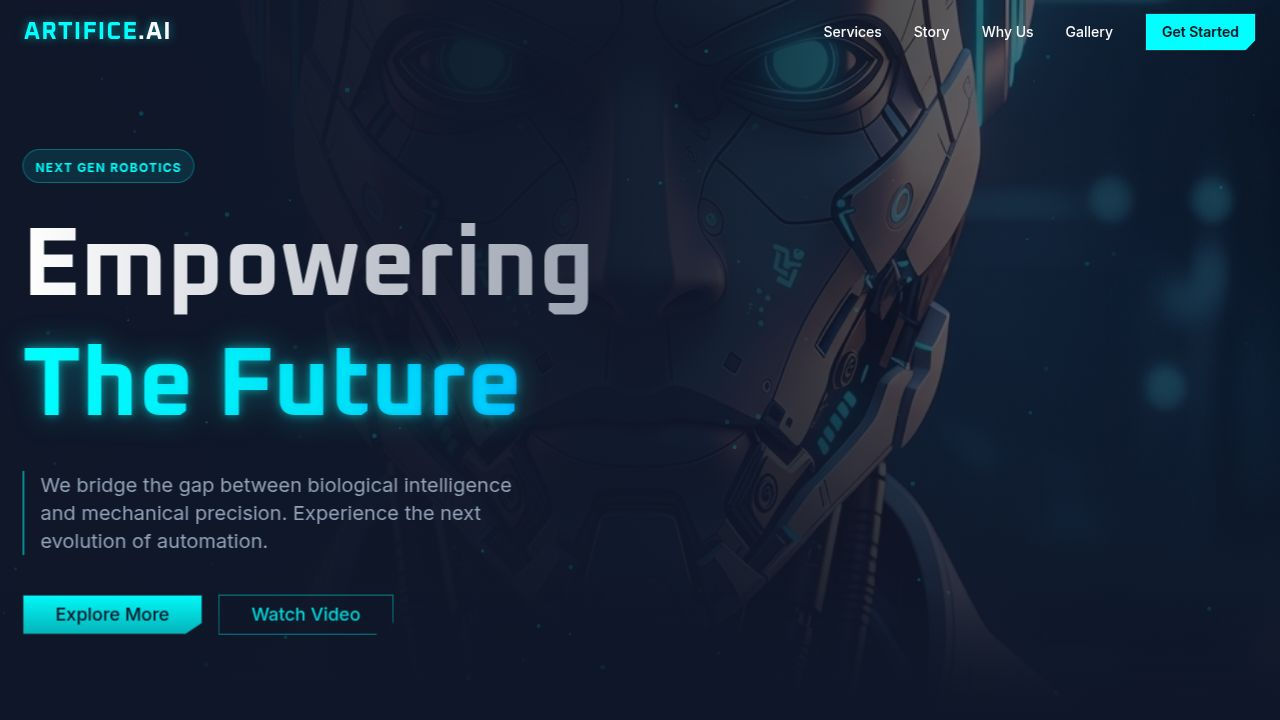
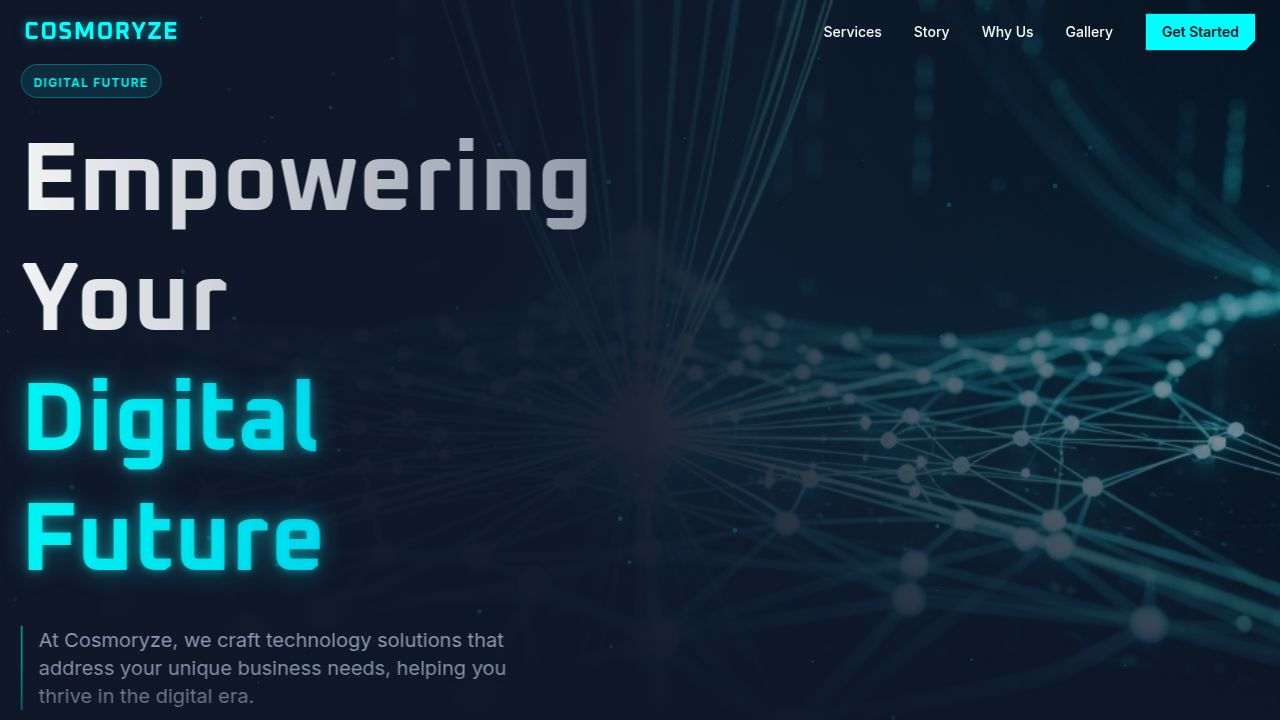
Update website content and imagery to reflect a new brand identity
Replaced "ARTIFICE.AI" with "COSMORYZE", updated hero and services sections, and swapped image assets to match the new branding.

Replit-Commit-Author: Agent
Replit-Commit-Session-Id: e38c0fb1-d854-4fc2-a731-f11efbb8b790
Replit-Commit-Checkpoint-Type: full_checkpoint
Replit-Commit-Event-Id: 98dcdce9-a100-4e81-912e-cbbc0bbe4c65
Replit-Commit-Screenshot-Url: https://storage.googleapis.com/screenshot-production-us-central1/9a9e8f92-416c-4af9-9a3e-e577f5bcaa67/e38c0fb1-d854-4fc2-a731-f11efbb8b790/PRW1V8E
Replit-Helium-Checkpoint-Created: true

diff --git a/client/src/pages/home.tsx b/client/src/pages/home.tsx
@@ -1,30 +1,13 @@
 import { useState, useEffect, useRef } from "react";
 import { motion, useScroll, useTransform } from "framer-motion";
-import { 
-  Cpu, 
-  Bot, 
-  BrainCircuit, 
-  Eye, 
-  ShieldCheck, 
-  Zap, 
-  Settings, 
-  ArrowRight, 
-  ArrowLeft, 
-  Menu, 
-  X, 
-  Github, 
-  Linkedin, 
-  Twitter, 
-  Instagram, 
-  ChevronUp
-} from "lucide-react";
+import { Cloud, Code, BarChart, Monitor, CheckCircle, Trophy, Users, Clock, Menu, ArrowLeft, ArrowRight, Github, Linkedin, Twitter, Instagram, ChevronUp } from "lucide-react";
 import { Button } from "@/components/ui/button";
 import { Card, CardContent, CardHeader, CardTitle, CardDescription } from "@/components/ui/card";
 import { Sheet, SheetContent, SheetTrigger } from "@/components/ui/sheet";
 import { TiltCard } from "@/components/ui/tilt-card";
 import { ParticleBackground } from "@/components/ui/particle-background";
-import heroImage from "@assets/generated_images/futuristic_ai_robot_hero_image.png";
-import storyImage from "@assets/generated_images/modern_robotics_lab.png";
+import heroImage from "@assets/generated_images/abstract_digital_future_hero_background.png";
+import storyImage from "@assets/generated_images/modern_tech_consulting_office.png";
 
 // Navigation Component
 const Navbar = () => {
@@ -52,7 +35,7 @@ const Navbar = () => {
     >
       <div className="container mx-auto px-4 md:px-6 h-16 flex items-center justify-between">
         <a href="#" className="text-2xl font-display font-bold tracking-wider text-primary text-glow">
-          ARTIFICE<span className="text-foreground">.AI</span>
+          COSMORYZE
         </a>
 
         {/* Desktop Nav */}
@@ -116,7 +99,7 @@ const Hero = () => {
         >
           <img 
             src={heroImage} 
-            alt="Futuristic AI Robot" 
+            alt="Digital Future Abstract" 
             className="w-full h-full object-cover object-center opacity-60"
           />
         </motion.div>
@@ -138,12 +121,12 @@ const Hero = () => {
             transition={{ delay: 0.2 }}
             className="inline-block px-3 py-1 border border-primary/30 rounded-full bg-primary/10 backdrop-blur-sm"
           >
-            <span className="text-primary text-xs font-bold tracking-widest uppercase">Next Gen Robotics</span>
+            <span className="text-primary text-xs font-bold tracking-widest uppercase">Digital Future</span>
           </motion.div>
           
           <h1 className="text-5xl md:text-7xl lg:text-8xl font-bold leading-tight">
-            <span className="block text-transparent bg-clip-text bg-gradient-to-r from-white to-gray-400">Empowering</span>
-            <span className="block text-transparent bg-clip-text bg-gradient-to-r from-primary via-cyan-400 to-blue-500 text-glow filter drop-shadow-[0_0_15px_rgba(0,255,255,0.3)]">The Future</span>
+            <span className="block text-transparent bg-clip-text bg-gradient-to-r from-white to-gray-400">Empowering Your</span>
+            <span className="block text-transparent bg-clip-text bg-gradient-to-r from-primary via-cyan-400 to-blue-500 text-glow filter drop-shadow-[0_0_15px_rgba(0,255,255,0.3)]">Digital Future</span>
           </h1>
           
           <motion.p 
@@ -152,8 +135,7 @@ const Hero = () => {
             transition={{ delay: 0.4 }}
             className="text-muted-foreground text-lg md:text-xl max-w-lg border-l-2 border-primary/50 pl-4"
           >
-            We bridge the gap between biological intelligence and mechanical precision. 
-            Experience the next evolution of automation.
+            At Cosmoryze, we craft technology solutions that address your unique business needs, helping you thrive in the digital era.
           </motion.p>
           
           <motion.div 
@@ -163,10 +145,10 @@ const Hero = () => {
             className="flex flex-wrap gap-4 pt-4"
           >
             <Button size="lg" className="bg-primary text-primary-foreground hover:bg-primary/90 text-lg px-8 rounded-none clip-path-slant hover:scale-105 transition-transform duration-300 shadow-[0_0_20px_rgba(0,255,255,0.4)]">
-              Explore More
+              Discover More
             </Button>
             <Button size="lg" variant="outline" className="border-primary/50 text-primary hover:bg-primary/10 text-lg px-8 rounded-none clip-path-slant hover:scale-105 transition-transform duration-300">
-              Watch Video
+              Our Services
             </Button>
           </motion.div>
         </motion.div>
@@ -181,10 +163,10 @@ const Hero = () => {
 // Services Section
 const Services = () => {
   const services = [
-    { title: "AI Integration", icon: BrainCircuit, desc: "Seamlessly embed neural networks into your existing infrastructure." },
-    { title: "ML Solutions", icon: Cpu, desc: "Adaptive machine learning algorithms that evolve with your data." },
-    { title: "Robotics Automation", icon: Bot, desc: "High-precision mechanical systems for industrial efficiency." },
-    { title: "Computer Vision", icon: Eye, desc: "Advanced optical recognition for autonomous navigation and QC." },
+    { title: "Cloud Infrastructure", icon: Cloud, desc: "Scalable, secure, and efficient solutions to optimize performance while reducing costs." },
+    { title: "Custom Software", icon: Code, desc: "Tailored software solutions designed to meet your unique business needs." },
+    { title: "Digital Transformation", icon: Monitor, desc: "Implementing technologies to streamline operations and enhance customer experiences." },
+    { title: "Data Analytics", icon: BarChart, desc: "Unlock insights from your data to drive informed decision-making and growth." },
   ];
 
   return (
@@ -196,8 +178,8 @@ const Services = () => {
           viewport={{ once: true }}
           className="mb-16 text-center max-w-2xl mx-auto"
         >
-          <h2 className="text-3xl md:text-4xl font-bold mb-4">Our Capabilities</h2>
-          <p className="text-muted-foreground">Cutting-edge solutions designed to accelerate your transition into the autonomous era.</p>
+          <h2 className="text-3xl md:text-4xl font-bold mb-4">Our Expertise</h2>
+          <p className="text-muted-foreground">Cosmoryze specializes in technology consulting services that accelerate your business. From cloud solutions to software development, we help you navigate the complex tech landscape.</p>
         </motion.div>
 
         <div className="grid grid-cols-1 md:grid-cols-2 lg:grid-cols-4 gap-8">
@@ -255,7 +237,7 @@ const CompanyStory = () => {
             >
               <img 
                 src={storyImage} 
-                alt="Artifice Robotics Laboratory" 
+                alt="Cosmoryze Tech Consulting" 
                 className="relative rounded-lg border border-primary/20 shadow-2xl w-full object-cover h-[400px] md:h-[500px] z-10"
               />
               {/* Floating tech element */}
@@ -268,7 +250,7 @@ const CompanyStory = () => {
                   <div className="w-3 h-3 rounded-full bg-green-500 animate-pulse" />
                   <div>
                     <p className="text-xs text-muted-foreground uppercase tracking-wider">System Status</p>
-                    <p className="font-mono text-primary font-bold">OPTIMAL</p>
+                    <p className="font-mono text-primary font-bold">ONLINE</p>
                   </div>
                 </div>
               </motion.div>
@@ -283,23 +265,23 @@ const CompanyStory = () => {
             className="space-y-8"
           >
             <div>
-              <h2 className="text-3xl md:text-4xl font-bold mb-6">Forging the <span className="text-primary">Future</span></h2>
+              <h2 className="text-3xl md:text-4xl font-bold mb-6">Innovating with <span className="text-primary">Precision</span></h2>
               <p className="text-muted-foreground text-lg leading-relaxed mb-6">
-                At Artifice AI, we believe that the synthesis of artificial intelligence and robotics is not just an industrial upgrade—it is the next step in human evolution.
+                At Cosmoryze, we are a forward-thinking tech consulting firm dedicated to delivering high-impact digital solutions for businesses of all sizes.
               </p>
               <p className="text-muted-foreground text-lg leading-relaxed">
-                Our mission is to create autonomous systems that amplify human potential, solving complex problems with speed and precision previously thought impossible.
+                With deep expertise in cutting-edge technologies and a relentless focus on innovation, we help our clients navigate the complexities of the digital landscape.
               </p>
             </div>
 
             <div className="grid grid-cols-2 gap-6">
               <div className="space-y-2 group">
-                <h3 className="text-xl font-bold text-primary group-hover:translate-x-2 transition-transform">Mission</h3>
-                <p className="text-sm text-muted-foreground">To democratize advanced robotics for every industry.</p>
+                <h3 className="text-xl font-bold text-primary group-hover:translate-x-2 transition-transform">Strategy</h3>
+                <p className="text-sm text-muted-foreground">Cloud Strategy & Enterprise Migration solutions.</p>
               </div>
               <div className="space-y-2 group">
-                <h3 className="text-xl font-bold text-primary group-hover:translate-x-2 transition-transform">Vision</h3>
-                <p className="text-sm text-muted-foreground">A world where humans and machines collaborate seamlessly.</p>
+                <h3 className="text-xl font-bold text-primary group-hover:translate-x-2 transition-transform">Automation</h3>
+                <p className="text-sm text-muted-foreground">DevOps & Automation for streamlined operations.</p>
               </div>
             </div>
           </motion.div>
@@ -312,16 +294,16 @@ const CompanyStory = () => {
 // Why Choose Us
 const WhyChooseUs = () => {
   const features = [
-    { title: "Easy Integration", icon: Settings, text: "Plug-and-play modules designed for universal compatibility." },
-    { title: "New Technology", icon: Zap, text: "Always ahead of the curve with the latest neural architectures." },
-    { title: "Reliability", icon: ShieldCheck, text: "Industrial-grade durability tested in extreme environments." },
-    { title: "Security", icon: Bot, text: "Military-grade encryption for all autonomous communications." }, // Reusing Bot icon or finding generic Lock
+    { title: "10+ Years", icon: Clock, text: "Years of experience delivering excellence in tech consulting." },
+    { title: "20+ Techs", icon: Trophy, text: "Experts in over 20+ cutting-edge technologies." },
+    { title: "5000+ Hours", icon: Users, text: "Hours of consulting provided to satisfied clients." },
+    { title: "900+ Reviews", icon: CheckCircle, text: "Positive client reviews reflecting our dedication." },
   ];
 
   return (
     <section id="why-us" className="py-24 bg-background">
       <div className="container mx-auto px-4 md:px-6">
-        <h2 className="text-3xl md:text-4xl font-bold text-center mb-16">Why Choose Artifice?</h2>
+        <h2 className="text-3xl md:text-4xl font-bold text-center mb-16">Why Choose Cosmoryze?</h2>
         
         <div className="grid grid-cols-1 md:grid-cols-2 lg:grid-cols-4 gap-8">
           {features.map((feature, idx) => (
@@ -350,10 +332,10 @@ const WhyChooseUs = () => {
 const GalleryCarousel = () => {
   const [activeIndex, setActiveIndex] = useState(0);
   const items = [
-    { title: "Project Alpha", desc: "Autonomous Drone Swarm" },
-    { title: "Project Beta", desc: "Deep Sea Exploration Unit" },
-    { title: "Project Gamma", desc: "Micro-Surgery Assistant" },
-    { title: "Project Delta", desc: "Atmospheric Processor" },
+    { title: "Web Development", desc: "Robust & Scalable Web Apps" },
+    { title: "UI/UX Design", desc: "Intuitive & Engaging Interfaces" },
+    { title: "E-Commerce", desc: "Seamless Online Shopping Experiences" },
+    { title: "Data Analytics", desc: "Insightful Business Intelligence" },
   ];
 
   const nextSlide = () => setActiveIndex((prev) => (prev + 1) % items.length);
@@ -427,13 +409,13 @@ const Footer = () => {
         <div className="grid md:grid-cols-3 gap-12 mb-12">
           <div>
             <a href="#" className="text-2xl font-display font-bold tracking-wider text-primary mb-6 block">
-              ARTIFICE<span className="text-foreground">.AI</span>
+              COSMORYZE
             </a>
             <p className="text-muted-foreground text-sm leading-relaxed mb-6">
-              Redefining the boundaries of what machines can do. We build the intelligence that powers tomorrow.
+              Solutions That Drive Innovation. Partner with us for solutions that position your business for success.
             </p>
             <div className="space-y-2 text-sm text-muted-foreground">
-              <p>contact@artifice.ai</p>
+              <p>contact@cosmoryze.com</p>
               <p>+1 (555) 012-3456</p>
             </div>
           </div>
@@ -475,7 +457,7 @@ const Footer = () => {
 
         <div className="border-t border-white/5 pt-8 flex flex-col md:flex-row justify-between items-center gap-4">
           <p className="text-xs text-muted-foreground text-center md:text-left">
-            © 2024 Artifice AI Robotics. All rights reserved.
+            © 2024 Cosmoryze. All rights reserved.
           </p>
           <Button 
             variant="ghost" 
